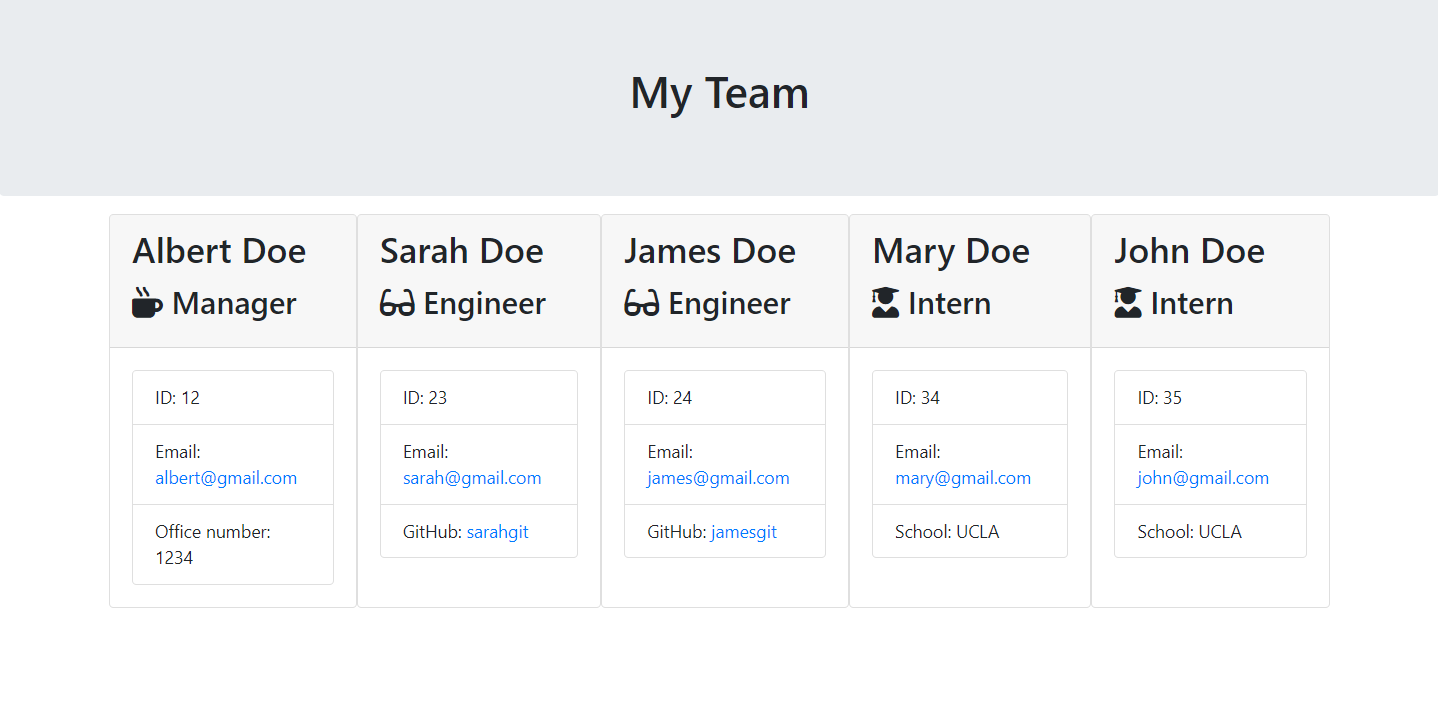
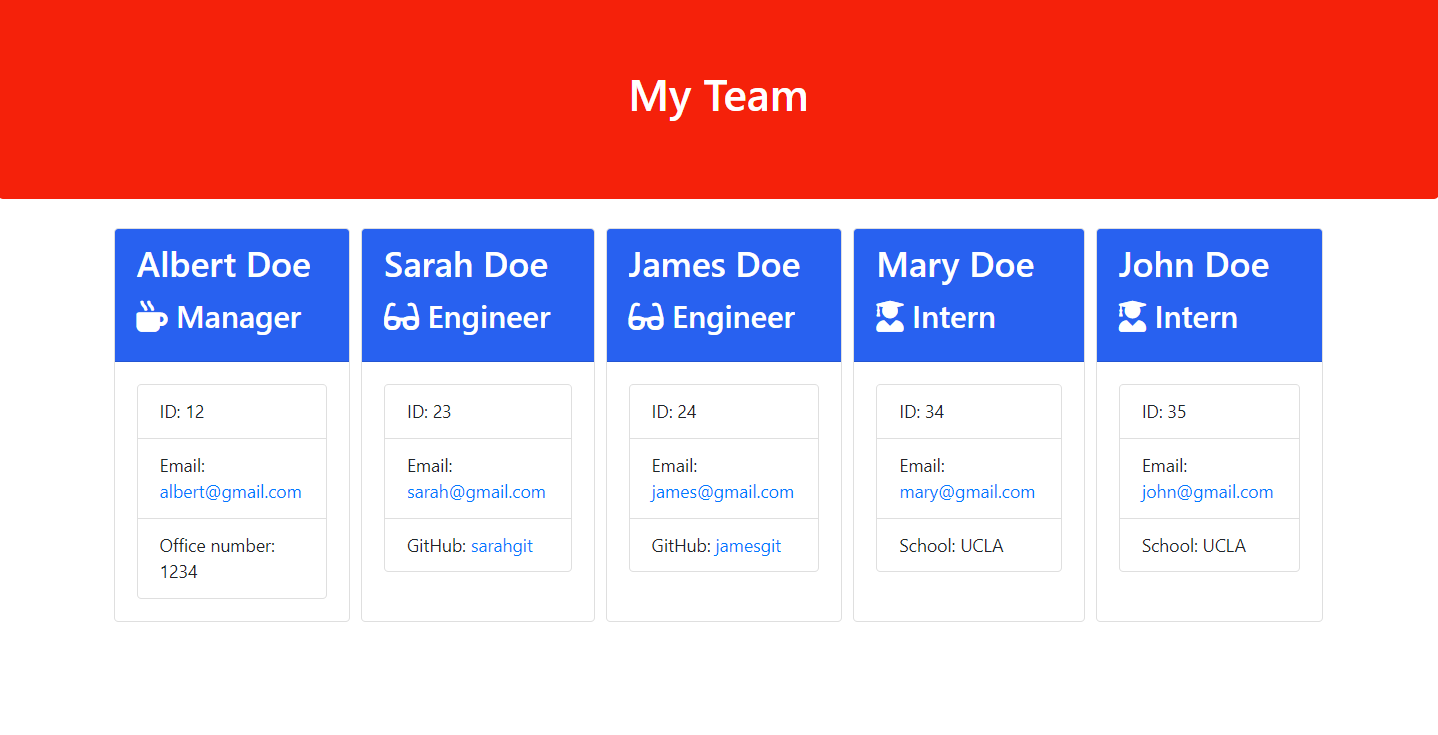
Adding css file to add style and adding new screenshot with new style

diff --git a/output/style.css b/output/style.css
@@ -1,0 +1,14 @@
+.card-header {
+    background-color: rgb(40, 97, 240);
+    color: white;
+}
+
+.team-heading {
+    background-color: rgb(245, 33, 10);
+    color: white;
+    align-items: center;
+}
+
+.employee-card {
+    margin: 10px 5px;
+}
